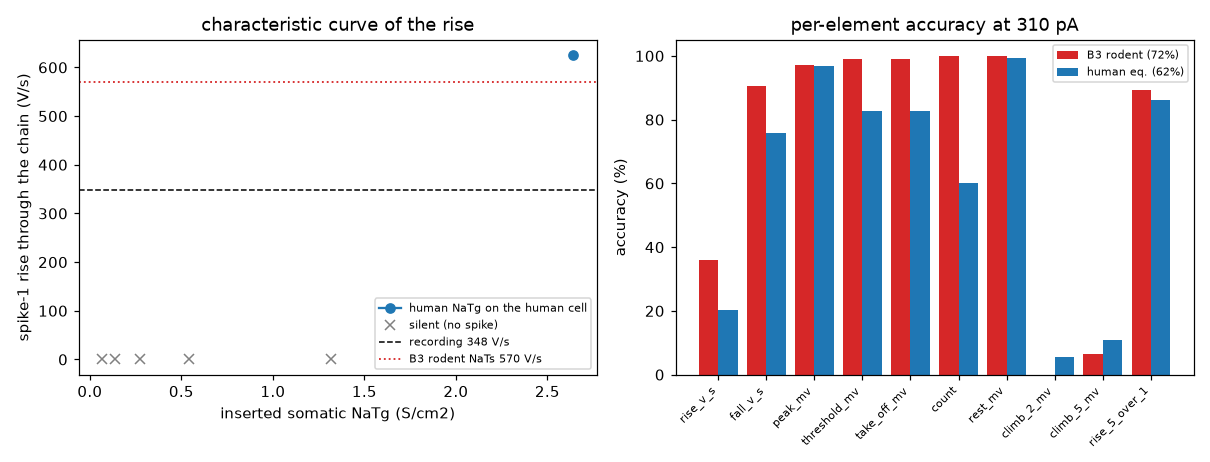
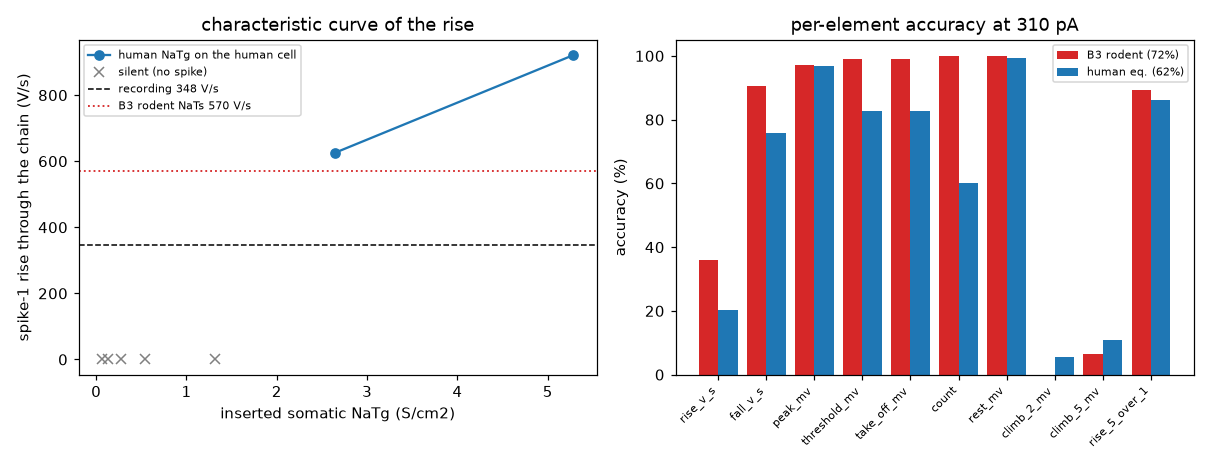
evidence(h01): stage 16 registered - the threshold climb (19.4 of the 28.2 missing accuracy points); part 1 an observation of what sets B3's take-off current spike to spike, part 2 a dose of the slow outward carrier it names. Stage-15 curve completed with the 5.282 dose (rise 921 V/s, still rising a

diff --git a/docs/specs/2026-09-12-h01-topographic-strategy.md b/docs/specs/2026-09-12-h01-topographic-strategy.md
@@ -846,3 +846,56 @@ lossy transform of the kind chapter 2 warns about -- it is a summary for the rea
 per-element table beside it is the reading that carries the information.
 
 Unchanged: the E recording, its chain, the readers, the sealed holdouts.
+
+## Stage 16 (registered 2026-09-13, before the observation and before the runs): the threshold climb
+
+**Why the climb and why now.** Stage 15 closed the rise: the sodium equation lineage is not its
+remaining input, and the fully human-fitted base is no closer to this cell than B3 (72.3 against
+71.8 percent over the ten registered elements). The accuracy that remains is concentrated in one
+place: of the 28.2 points B3 is missing at 310 pA, the two threshold-climb elements carry 19.4
+and the rise 6.4, and every other element is already between 90 and 100 percent. The recording
+climbs +1.38 mV in the first interspike interval and +3.63 mV by spike 5 with the rise kept at
+0.86; B3 climbs -0.02 and +0.24. HL23PYR reproduces the first-interval step exactly (+1.38) with
+its rise kept, so the step is reachable by a human L2/3 model; B3 holds the excitability that
+HL23PYR loses. The split is therefore: what does B3 lack that lets a threshold move between one
+spike and the next.
+
+**Part 1, an observation on retained traces (no run): what sets B3's threshold, and what changes.**
+The stage-14 machinery is re-pointed from the peak of the upstroke to the take-off. On
+`h01-e-currents/m0-b3-currents-sweep53` (the retained B3 run at 310 pA carrying every somatic
+current on the solver's native grid), the somatic current balance is read at the take-off of
+spike 1 and again at the take-off of spike 2, at the same membrane voltage, and decomposed by
+carrier.
+(a) *Why B3's threshold cannot move.* The net outward current at the take-off of spike 2, read at
+spike 1's take-off voltage, against the same quantity at spike 1. Prediction if B3 lacks an
+accumulating brake: the two agree within 10 percent, so nothing has accumulated between the
+spikes and the threshold has no reason to move. Registered alternative outcome: they differ by
+more than 10 percent and the threshold still does not move, in which case the threshold is set by
+something other than the outward current at take-off and the dose below is refused.
+(b) *Which carrier holds the outward charge at take-off.* Kv3_1, Im, K_P, K_T, SK, Ih and leak
+ranked by their share at the take-off. Prediction from the fitted densities (soma Kv3_1 0.369,
+Im 3.0e-4, K_P 2.3e-4, K_T 1.1e-8 S/cm2): the fast Kv3_1 dominates and the slow, accumulating
+carriers are negligible. This names the carrier to dose; it is an observation, not pass/fail.
+
+**Part 2, the dose (runs): a characteristic curve of the climb.** The slow outward carrier that
+part 1 identifies is dosed on the soma of B3 across four densities, at 310 pA, sweep 53 only,
+everything else held (the human anatomy, every other fitted density, the recorded command plus
+bias, nseg 9, CVode 1e-10, 34 degrees). Manifest `h01-e-climb-manifest.json`, output
+`h01-e-climb`, cap 5. No holdout is touched. All fast quantities through the stage-12 chain.
+(c) *The climb.* Threshold at spike 2 minus spike 1, and at spike 5 minus spike 1, against the
+recorded +1.38 and +3.63 mV. Prediction if the climb is a somatic slow-outward deficit: some dose
+reaches at least half the recorded first-interval step (+0.69 mV) and the curve is monotone in the
+dose.
+(d) *It must not be bought with the count or the rise.* At that dose the 310 pA count stays within
+5 to 15 (recorded 10) and the spike-1 rise stays within 15 percent of B3's own 570 V/s, so the
+climb is not obtained by crippling the cell. The rise of spike 5 over spike 1 is reported against
+the recorded 0.86.
+(e) *Rejection.* No dose reaches half the recorded step (the climb is not a somatic slow-outward
+deficit and the residual is reported, not repaired); or every dose that does also leaves the count
+or the rise band; or the climb does not move monotonically with the dose (the dose is not acting
+through that carrier).
+
+**Percent accuracy.** Recomputed on the ten elements and the definition already registered at
+stage 15, for B3 and for the best climb dose, reported side by side.
+
+Unchanged: the E recording, its chain, the readers, the sealed holdouts.

diff --git a/docs/evidence/h01-topographic/stage-15.md b/docs/evidence/h01-topographic/stage-15.md
@@ -17,6 +17,7 @@ Verdict: **MIXED**
 | 0.544 | silent (no spike) | 0 |
 | 1.320 | silent (no spike) | 0 |
 | 2.641 | 625 | 6 |
+| 5.282 | 921 | 6 |
 
 Recorded 348 V/s; B3 with the rodent equations 570 V/s at gbar 2.641, count 10.
 Crossing of the recorded rise: {'dose_s_cm2': None, 'inside_series': False}.
@@ -49,7 +50,7 @@ the published HL23PYR template cannot construct on the 541563728 morphology: bio
 
 ## Cells
 
-- (a) PASS: the rise rises monotonically with the inserted human sodium density (the dose acts through the somatic sodium) -> {0.068: 'silent', 0.136: 'silent', 0.272: 'silent', 0.544: 'silent', 1.32: 'silent', 2.641: 625.1}. crossing of the recorded 348 V/s: {'dose_s_cm2': None, 'inside_series': False}
+- (a) PASS: the rise rises monotonically with the inserted human sodium density (the dose acts through the somatic sodium) -> {0.068: 'silent', 0.136: 'silent', 0.272: 'silent', 0.544: 'silent', 1.32: 'silent', 2.641: 625.1, 5.282: 920.9}. crossing of the recorded 348 V/s: {'dose_s_cm2': None, 'inside_series': False}
 - (b) FAIL: some dose puts the rise within 15 percent of the recorded 348 V/s with the 310 pA count still within 5 to 15 -> {'in_rise_band': [], 'and_count_holds': []}. the rise must not be bought with the count
 - (c) --: the human sodium equations reach the recorded rise where the rodent equations reach it only by removing nearly all somatic sodium (stage-11 intercept ~320 V/s) -> {'b3_rodent_rise_v_s': 570.4, 'best_human_dose': '2.641'}. reported beside the stage-11 rodent series 655/586/505
 - (d) FAIL: percent accuracy over the ten registered elements improves against B3 -> {'b3_pct': 71.8, 'human_pct': 62.0}. lossy summary; the per-element table is the reading
